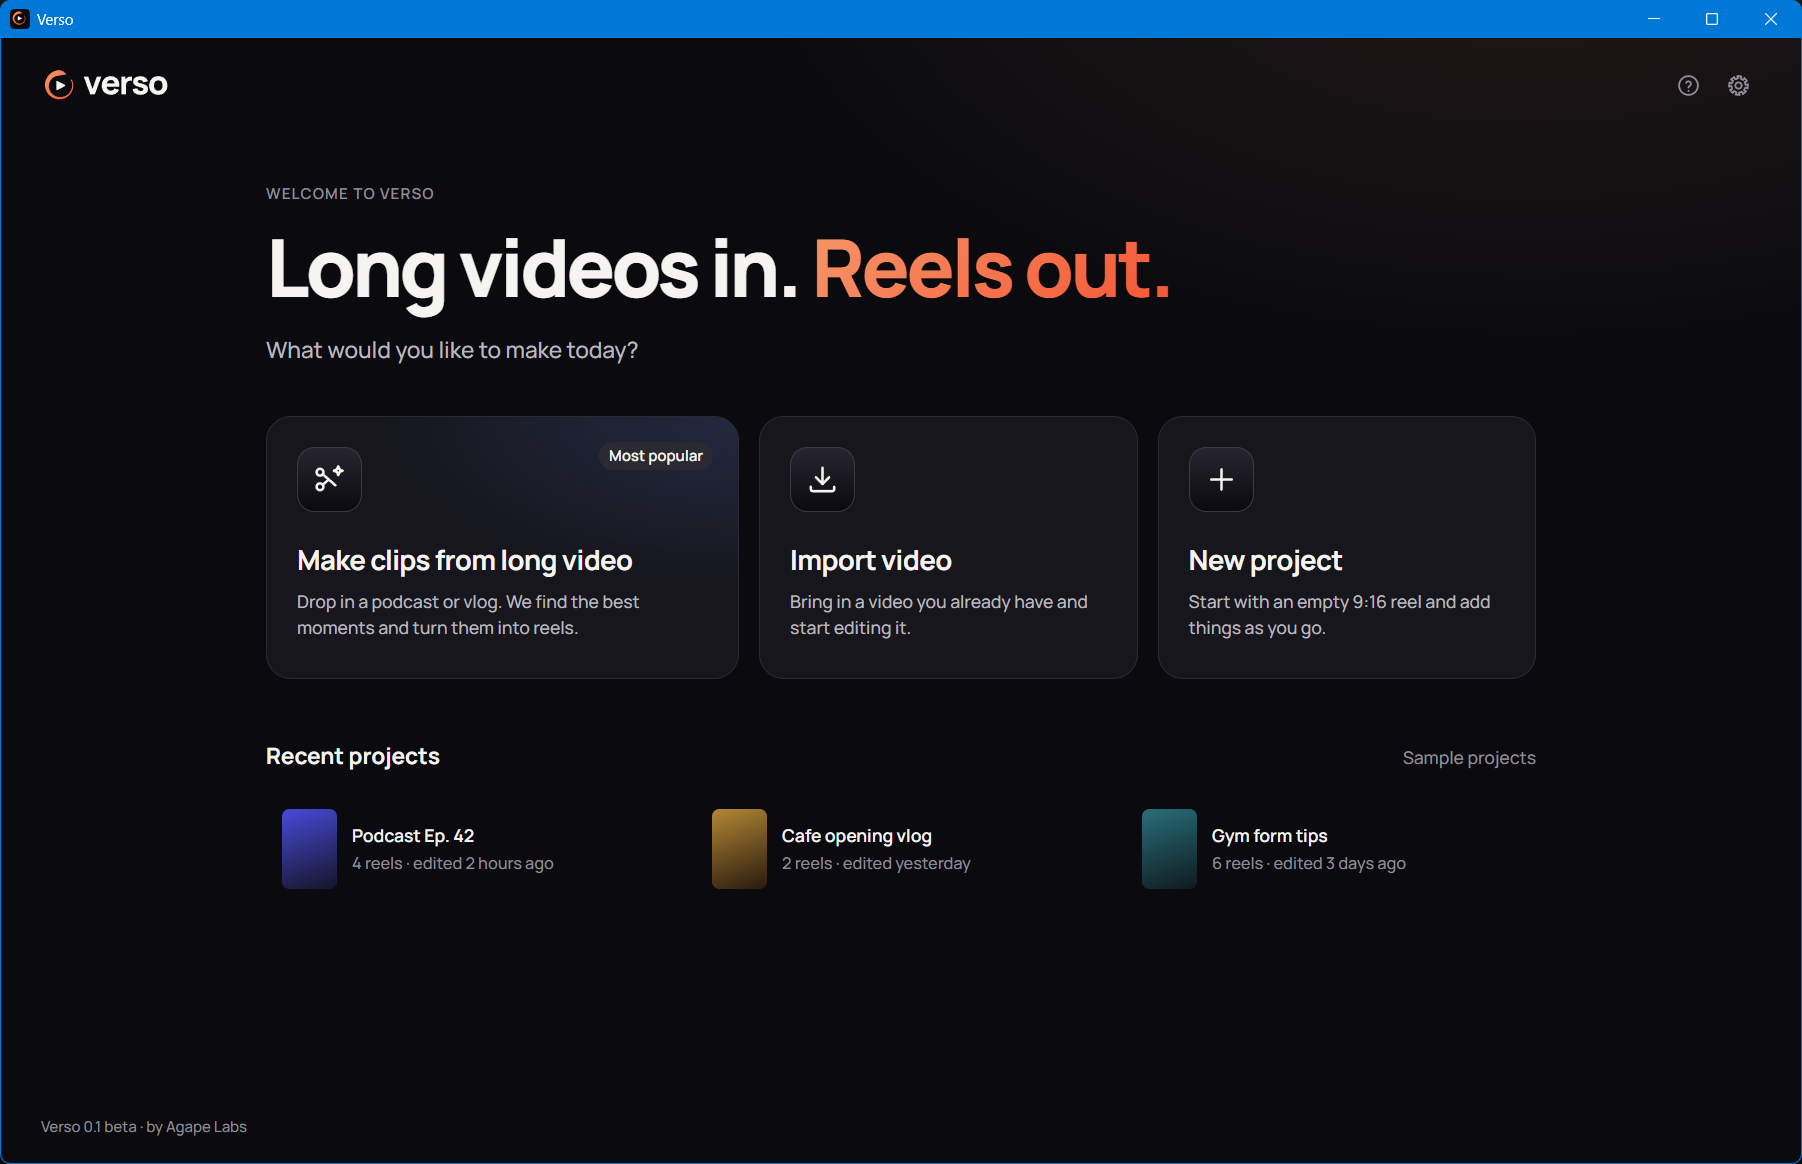
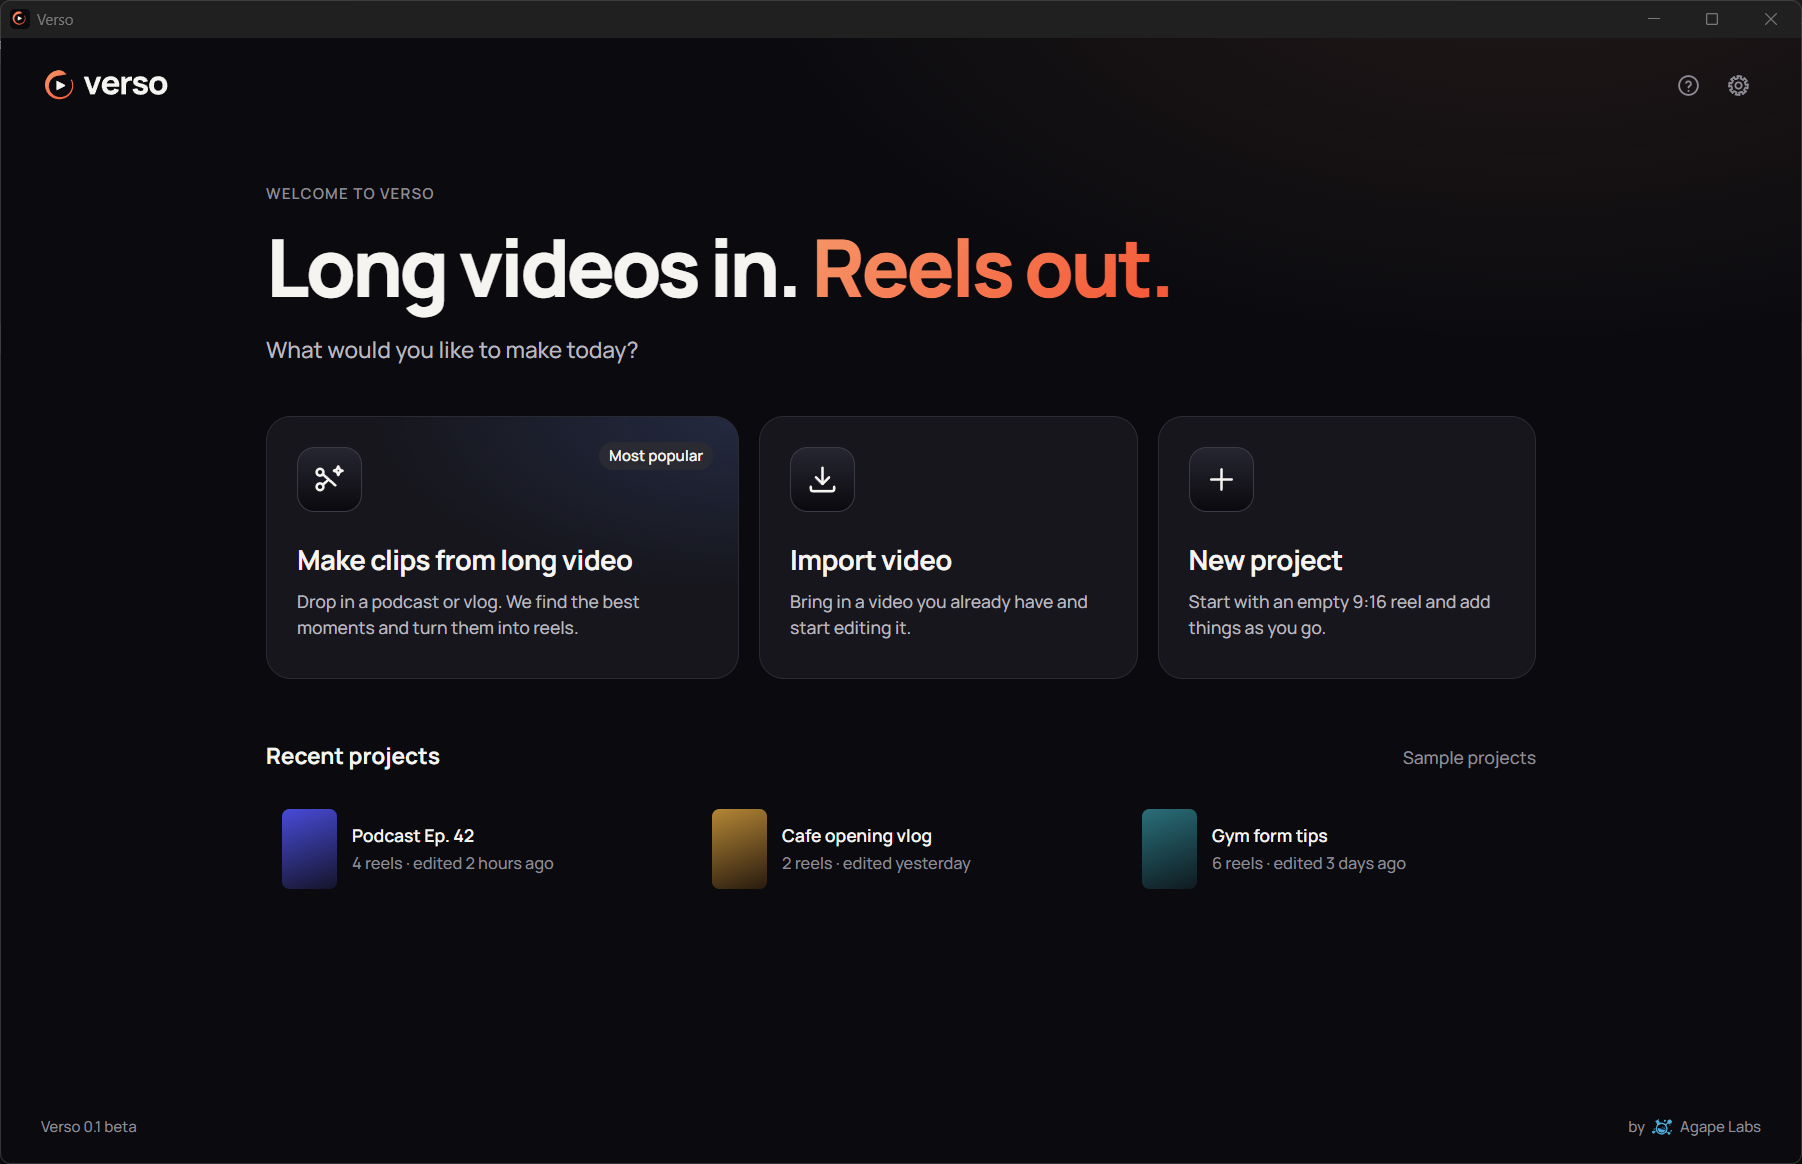
Add Agape Labs branding
Quiet 'by Agape Labs' credit on the splash and Welcome screens, and an About panel (help icon) with the Verso mark, version and developer credit. Logos copied from the Agape Labs brand kit.

diff --git a/src/styles/app.css b/src/styles/app.css
@@ -388,7 +388,7 @@ input[type="range"]::-webkit-slider-thumb {
   animation: splash-out var(--vs-motion-duration-slow) var(--vs-motion-easing-exit) 1180ms forwards;
 }
 
-.splash img {
+.splash .splash__art {
   width: min(720px, 70vw);
   height: auto;
   border-radius: var(--vs-radius-xl);
@@ -1644,4 +1644,114 @@ input[type="range"]::-webkit-slider-thumb {
 
 .ruler__tick:first-child .ruler__label {
   transform: none;
+}
+
+/* ---------- Agape Labs endorsement + About ---------- */
+.agape-credit {
+  display: inline-flex;
+  align-items: center;
+  gap: 6px;
+  font-size: var(--vs-font-size-caption);
+  font-weight: var(--vs-font-weight-medium);
+  color: var(--vs-color-role-text-muted);
+}
+
+.agape-credit img {
+  opacity: 0.85;
+}
+
+.welcome__foot {
+  display: flex;
+  align-items: center;
+  justify-content: space-between;
+}
+
+.splash {
+  grid-template-rows: 1fr auto;
+}
+
+.splash__art {
+  align-self: center;
+}
+
+.splash__credit {
+  padding-bottom: var(--vs-space-8);
+}
+
+.modal-backdrop {
+  position: fixed;
+  inset: 0;
+  z-index: 60;
+  display: grid;
+  place-items: center;
+  background: rgba(5, 5, 8, 0.66);
+  backdrop-filter: blur(6px);
+  animation: fade-in var(--vs-motion-duration-base) var(--vs-motion-easing-enter);
+}
+
+.about {
+  display: flex;
+  flex-direction: column;
+  align-items: center;
+  width: 380px;
+  padding: var(--vs-space-8) var(--vs-space-8) var(--vs-space-6);
+  text-align: center;
+  border-radius: var(--vs-radius-xl);
+  background: var(--vs-color-role-bg-surface);
+  border: 1px solid var(--vs-color-role-border);
+  box-shadow: var(--vs-shadow-lg);
+  animation: toast-in var(--vs-motion-duration-slow) var(--vs-motion-easing-enter);
+}
+
+.about__name {
+  margin-top: var(--vs-space-4);
+  font-size: var(--vs-font-size-headline);
+  font-weight: var(--vs-font-weight-extrabold);
+  letter-spacing: -0.04em;
+}
+
+.about__tagline {
+  color: var(--vs-color-role-text-secondary);
+}
+
+.about__version {
+  margin-top: var(--vs-space-2);
+  font-size: var(--vs-font-size-small);
+  color: var(--vs-color-role-text-muted);
+}
+
+.about__divider {
+  width: 100%;
+  height: 1px;
+  margin: var(--vs-space-6) 0 var(--vs-space-5);
+  background: var(--vs-color-role-border);
+}
+
+.about__agape {
+  width: 96px;
+  height: auto;
+  opacity: 0.9;
+}
+
+.about__credit {
+  margin-top: var(--vs-space-3);
+  font-size: var(--vs-font-size-small);
+  color: var(--vs-color-role-text-secondary);
+}
+
+.about__copy {
+  margin-top: var(--vs-space-1);
+  font-size: var(--vs-font-size-caption);
+  color: var(--vs-color-role-text-muted);
+}
+
+.about__close {
+  margin-top: var(--vs-space-6);
+  min-width: 120px;
+}
+
+@keyframes fade-in {
+  from {
+    opacity: 0;
+  }
 }

diff --git a/src/components/About.tsx b/src/components/About.tsx
@@ -1,0 +1,51 @@
+import { useEffect, useRef, useState } from "react";
+import { getVersion } from "@tauri-apps/api/app";
+import versoMark from "../assets/brand/verso-mark.svg";
+import agapeLockup from "../assets/brand/agape-labs-lockup-dark.svg";
+
+/** About Verso: mark, version and developer credit. */
+export function About({ onClose }: { onClose: () => void }) {
+  const [version, setVersion] = useState("0.1.0");
+  const closeRef = useRef<HTMLButtonElement>(null);
+
+  useEffect(() => {
+    getVersion()
+      .then(setVersion)
+      .catch(() => {
+        /* running in a plain browser (pnpm dev): keep the fallback */
+      });
+    closeRef.current?.focus();
+    const onKey = (e: KeyboardEvent) => e.key === "Escape" && onClose();
+    window.addEventListener("keydown", onKey);
+    return () => window.removeEventListener("keydown", onKey);
+  }, [onClose]);
+
+  return (
+    <div className="modal-backdrop" onMouseDown={onClose}>
+      <div
+        className="about"
+        role="dialog"
+        aria-modal="true"
+        aria-labelledby="about-title"
+        onMouseDown={(e) => e.stopPropagation()}
+      >
+        <img src={versoMark} alt="" width={64} height={64} />
+        <h2 id="about-title" className="about__name">
+          Verso
+        </h2>
+        <p className="about__tagline">Long videos in. Reels out.</p>
+        <p className="about__version">Version {version} beta</p>
+
+        <div className="about__divider" />
+
+        <img src={agapeLockup} alt="Agape Labs" className="about__agape" />
+        <p className="about__credit">Developed by Agape Labs, Exaltes Global Private Limited</p>
+        <p className="about__copy">© 2026 Exaltes Global Private Limited. All rights reserved.</p>
+
+        <button ref={closeRef} type="button" className="btn btn--secondary about__close" onClick={onClose}>
+          <span>Close</span>
+        </button>
+      </div>
+    </div>
+  );
+}

diff --git a/src/screens/Welcome.tsx b/src/screens/Welcome.tsx
@@ -1,5 +1,6 @@
 import logo from "../assets/brand/verso-logo-horizontal-dark-bg.svg";
 import { Icon, type IconName } from "../components/Icon";
+import { AgapeCredit } from "../components/AgapeCredit";
 import { IconButton } from "../components/ui";
 import { recentProjects } from "../data/placeholder";
 
@@ -8,6 +9,7 @@ interface WelcomeProps {
   onNewProject: () => void;
   onImport: () => void;
   onMakeClips: () => void;
+  onAbout: () => void;
 }
 
 interface Action {
@@ -19,7 +21,7 @@ interface Action {
   busy?: boolean;
 }
 
-export function Welcome({ importing, onNewProject, onImport, onMakeClips }: WelcomeProps) {
+export function Welcome({ importing, onNewProject, onImport, onMakeClips, onAbout }: WelcomeProps) {
   const actions: Action[] = [
     {
       icon: "auto-cut",
@@ -48,7 +50,7 @@ export function Welcome({ importing, onNewProject, onImport, onMakeClips }: Welc
       <header className="welcome__bar">
         <img src={logo} alt="Verso" className="welcome__logo" />
         <div className="welcome__bar-actions">
-          <IconButton icon="help" label="Help" />
+          <IconButton icon="help" label="About Verso" onClick={onAbout} />
           <IconButton icon="settings" label="Settings" />
         </div>
       </header>
@@ -101,7 +103,10 @@ export function Welcome({ importing, onNewProject, onImport, onMakeClips }: Welc
         </section>
       </main>
 
-      <footer className="welcome__foot">Verso 0.1 beta · by Agape Labs</footer>
+      <footer className="welcome__foot">
+        <span>Verso 0.1 beta</span>
+        <AgapeCredit />
+      </footer>
     </div>
   );
 }

diff --git a/src/App.tsx b/src/App.tsx
@@ -1,4 +1,5 @@
 import { useCallback, useEffect, useState } from "react";
+import { About } from "./components/About";
 import { Splash } from "./components/Splash";
 import { Toast, type ToastMessage } from "./components/ui";
 import { pickAndProbe, type MediaInfo } from "./lib/media";
@@ -14,6 +15,9 @@ export default function App() {
   const [media, setMedia] = useState<MediaInfo[]>([]);
   const [importing, setImporting] = useState(false);
   const [toast, setToast] = useState<ToastMessage | null>(null);
+  const [showAbout, setShowAbout] = useState(false);
+  const openAbout = useCallback(() => setShowAbout(true), []);
+  const closeAbout = useCallback(() => setShowAbout(false), []);
 
   useEffect(() => {
     const reduce = window.matchMedia("(prefers-reduced-motion: reduce)").matches;
@@ -66,6 +70,7 @@ export default function App() {
             if (await importMedia()) openEditor("media");
           }}
           onMakeClips={() => openEditor("autocut")}
+          onAbout={openAbout}
         />
       ) : (
         <Editor
@@ -75,9 +80,11 @@ export default function App() {
           importing={importing}
           onImport={importMedia}
           onHome={() => setScreen("welcome")}
+          onAbout={openAbout}
           notify={notify}
         />
       )}
+      {showAbout && <About onClose={closeAbout} />}
       {toast && <Toast message={toast} onDone={() => setToast(null)} />}
       {showSplash && <Splash />}
     </>

diff --git a/src/components/editor/TopBar.tsx b/src/components/editor/TopBar.tsx
@@ -10,11 +10,21 @@ interface TopBarProps {
   aspect: AspectRatio;
   onAspect: (a: AspectRatio) => void;
   onHome: () => void;
+  onAbout: () => void;
   onExport: () => void;
   onShare: () => void;
 }
 
-export function TopBar({ projectName, onRename, aspect, onAspect, onHome, onExport, onShare }: TopBarProps) {
+export function TopBar({
+  projectName,
+  onRename,
+  aspect,
+  onAspect,
+  onHome,
+  onAbout,
+  onExport,
+  onShare,
+}: TopBarProps) {
   return (
     <header className="topbar">
       <div className="topbar__left">
@@ -46,7 +56,7 @@ export function TopBar({ projectName, onRename, aspect, onAspect, onHome, onExpo
       <div className="topbar__right">
         <IconButton icon="undo" label="Undo (Ctrl+Z)" />
         <IconButton icon="redo" label="Redo (Ctrl+Shift+Z)" />
-        <IconButton icon="help" label="Help" />
+        <IconButton icon="help" label="About Verso" onClick={onAbout} />
         <Button icon="share" onClick={onShare}>
           Share
         </Button>

diff --git a/src/screens/Editor.tsx b/src/screens/Editor.tsx
@@ -16,10 +16,11 @@ interface EditorProps {
   importing: boolean;
   onImport: () => Promise<boolean>;
   onHome: () => void;
+  onAbout: () => void;
   notify: (m: ToastMessage) => void;
 }
 
-export function Editor({ initialTab, media, importing, onImport, onHome, notify }: EditorProps) {
+export function Editor({ initialTab, media, importing, onImport, onHome, onAbout, notify }: EditorProps) {
   const [tab, setTab] = useState<PanelTab>(initialTab);
   const [projectName, setProjectName] = useState("Podcast Ep. 42");
   const [aspect, setAspect] = useState<AspectRatio>("9:16");
@@ -72,6 +73,7 @@ export function Editor({ initialTab, media, importing, onImport, onHome, notify 
         aspect={aspect}
         onAspect={setAspect}
         onHome={onHome}
+        onAbout={onAbout}
         onExport={() => notify({ tone: "info", text: "Export is coming in the next beta build." })}
         onShare={() => notify({ tone: "info", text: "Sharing is coming soon." })}
       />

diff --git a/src/components/Splash.tsx b/src/components/Splash.tsx
@@ -1,10 +1,12 @@
 import splash from "../assets/brand/splash.png";
+import { AgapeCredit } from "./AgapeCredit";
 
 /** Launch splash from the brand kit (07-Social/app-splash-screen). */
 export function Splash() {
   return (
     <div className="splash" role="status" aria-label="Verso is starting">
-      <img src={splash} alt="" width={960} height={600} />
+      <img src={splash} alt="" width={960} height={600} className="splash__art" />
+      <AgapeCredit className="splash__credit" />
     </div>
   );
 }

diff --git a/src/components/AgapeCredit.tsx b/src/components/AgapeCredit.tsx
@@ -1,0 +1,12 @@
+import agapeSymbol from "../assets/brand/agape-labs-symbol.svg";
+
+/** Quiet "by Agape Labs" endorsement. Verso stays the hero. */
+export function AgapeCredit({ className }: { className?: string }) {
+  return (
+    <span className={className ? `agape-credit ${className}` : "agape-credit"}>
+      <span>by</span>
+      <img src={agapeSymbol} alt="" width={16} height={16} />
+      <span>Agape Labs</span>
+    </span>
+  );
+}
